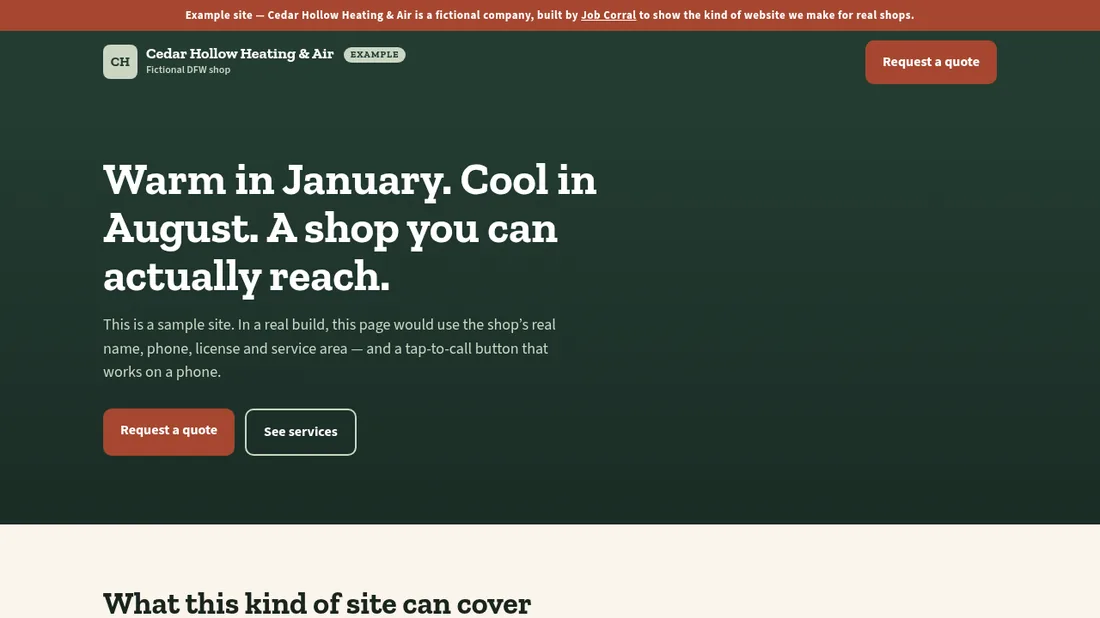
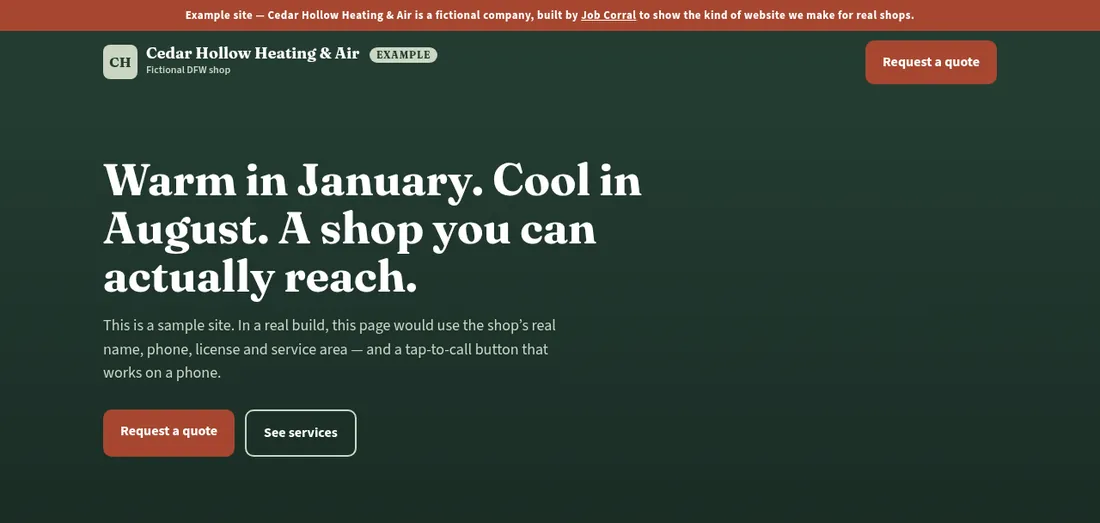
Redesign the Job Corral marketing site in the Hearth Air palette.
Cream, forest, terracotta and sage, with a serif wordmark, sunlit interior photo, and cream/sage missed-call chat bubbles. Prospect preview pages are unchanged.

Changed region(s): [[0.0, 0.2447, 1.0, 1.0], [0.0, 0.0, 1.0, 0.1836]]

diff --git a/index.html b/index.html
@@ -8,91 +8,142 @@
 <link rel="icon" href="favicon.svg" type="image/svg+xml">
 <link rel="preconnect" href="https://fonts.googleapis.com">
 <link rel="preconnect" href="https://fonts.gstatic.com" crossorigin>
-<link href="https://fonts.googleapis.com/css2?family=Source+Sans+3:wght@400;600;700;800&family=Zilla+Slab:wght@600;700&display=swap" rel="stylesheet">
+<link href="https://fonts.googleapis.com/css2?family=Fraunces:opsz,wght@9..144,500;9..144,600;9..144,700&family=Source+Sans+3:wght@400;600;700;800&display=swap" rel="stylesheet">
 <style>
 :root{
-  --ink:#1c1612;
-  --muted:#5c534a;
-  --brand:#9a3412;
-  --brand2:#7c2d12;
-  --bg:#f7f1e8;
+  --cream:#FAF5EB;
+  --forest:#243C32;
+  --terra:#A64730;
+  --terra-dark:#8a3a28;
+  --sage:#CBD6C3;
+  --ink:#243C32;
+  --muted:#4d5c56;
   --card:#fffdf8;
-  --line:#e6ddd0;
-  --ok:#3f6212;
-  --brass:#c4a574;
+  --line:#e2d9c8;
 }
 *{box-sizing:border-box}
-body{margin:0;font-family:"Source Sans 3",-apple-system,BlinkMacSystemFont,"Segoe UI",Roboto,Arial,sans-serif;color:var(--ink);line-height:1.55;background:#fff}
-a{color:var(--brand2)}
-.wrap{max-width:1080px;margin:0 auto;padding:0 20px}
-header{position:sticky;top:0;background:rgba(247,241,232,.94);backdrop-filter:blur(6px);border-bottom:1px solid var(--line);z-index:5}
-.nav{display:flex;align-items:center;justify-content:space-between;height:66px}
+html{scroll-behavior:smooth}
+body{margin:0;font-family:"Source Sans 3",-apple-system,BlinkMacSystemFont,"Segoe UI",Roboto,Arial,sans-serif;color:var(--ink);line-height:1.6;background:var(--cream)}
+a{color:var(--terra)}
+.wrap{max-width:1120px;margin:0 auto;padding:0 20px}
+header{position:sticky;top:0;background:rgba(250,245,235,.92);backdrop-filter:blur(10px);border-bottom:1px solid var(--line);z-index:5}
+.nav{display:flex;align-items:center;justify-content:space-between;height:70px;gap:12px}
 .logo{display:flex;align-items:center;text-decoration:none}
-.logo img{height:34px;width:auto;display:block}
-.btn{display:inline-block;background:var(--brand);color:#fff;text-decoration:none;font-weight:700;padding:13px 22px;border-radius:10px;border:0;cursor:pointer;font-size:16px;font-family:inherit}
-.btn:hover{background:var(--brand2)}
-.btn.ghost{background:transparent;color:var(--ink);border:2px solid var(--line)}
-.hero{background:linear-gradient(180deg,var(--bg),#fff);padding:72px 0 56px}
-.hero h1,.hero-font,h2{font-family:"Zilla Slab",Georgia,serif;font-weight:700}
-.hero h1{font-size:clamp(32px,5vw,52px);line-height:1.08;margin:0 0 18px;letter-spacing:-.6px}
-.hero p.lead{font-size:20px;color:var(--muted);max-width:720px}
-.pill{display:inline-block;background:#f3e6d4;color:var(--brand2);font-weight:700;font-size:13px;padding:6px 12px;border-radius:999px;margin-bottom:18px}
-.cta-row{display:flex;gap:12px;flex-wrap:wrap;margin-top:26px}
+.logo img{height:36px;width:auto;display:block}
+.btn{display:inline-flex;align-items:center;justify-content:center;background:var(--terra);color:#fff;text-decoration:none;font-weight:700;padding:13px 22px;border-radius:999px;border:0;cursor:pointer;font-size:16px;font-family:inherit;line-height:1.2}
+.btn:hover{background:var(--terra-dark)}
+.btn.ghost{background:transparent;color:var(--forest);border:1.5px solid var(--forest)}
+.btn.ghost:hover{background:var(--forest);color:var(--cream)}
+.btn.light{background:var(--cream);color:var(--forest)}
+.btn.light:hover{background:#fff}
+.hero{padding:48px 0 72px}
+@media(min-width:900px){.hero{padding:72px 0 96px}}
+.hero-grid{display:grid;gap:36px;align-items:center}
+@media(min-width:900px){.hero-grid{grid-template-columns:1.05fr .95fr;gap:56px}}
+.hero h1,h2,h3,.serif,.stat,.amt,.result .big{font-family:"Fraunces",Georgia,"Times New Roman",serif;font-weight:600;letter-spacing:-.02em}
+.hero h1{font-size:clamp(34px,6.2vw,58px);line-height:1.08;margin:0 0 18px;font-weight:600}
+.hero p.lead{font-size:clamp(17px,2.2vw,20px);color:var(--muted);max-width:540px;margin:0}
+.pill{display:inline-block;background:var(--sage);color:var(--forest);font-weight:700;font-size:13px;padding:6px 12px;border-radius:999px;margin-bottom:18px}
+.cta-row{display:flex;gap:12px;flex-wrap:wrap;margin-top:28px}
 .small{font-size:14px;color:var(--muted)}
-section{padding:64px 0}
-h2{font-size:clamp(26px,3.5vw,36px);letter-spacing:-.3px;margin:0 0 12px}
-.sub{color:var(--muted);max-width:720px;margin:0 0 32px}
+.hero-visual{position:relative}
+.hero-visual img{width:100%;border-radius:24px;aspect-ratio:4/3;object-fit:cover;display:block;box-shadow:0 24px 50px rgba(36,60,50,.16)}
+.phone{background:var(--forest);border-radius:28px;padding:16px 14px 18px;box-shadow:0 18px 40px rgba(36,60,50,.3);color:var(--forest)}
+.phone .notch{width:86px;height:5px;border-radius:999px;background:rgba(250,245,235,.25);margin:0 auto 12px}
+.hero-visual .phone{position:relative;width:100%;max-width:280px;margin:-48px 16px 0 auto}
+@media(min-width:900px){
+  .hero-visual .phone{position:absolute;right:18px;bottom:-28px;margin:0;width:min(242px,54%)}
+}
+.chat{max-width:420px}
+.b{padding:10px 13px;border-radius:16px;margin:8px 0;max-width:88%;font-size:14.5px;line-height:1.4}
+.b.cust{background:var(--cream);color:var(--forest);border-bottom-left-radius:5px}
+.b.shop{background:var(--sage);color:var(--forest);margin-left:auto;border-bottom-right-radius:5px}
+section{padding:72px 0}
+@media(min-width:900px){section{padding:96px 0}}
+h2{font-size:clamp(28px,4vw,42px);line-height:1.15;margin:0 0 12px}
+.sub{color:var(--muted);max-width:680px;margin:0 0 36px;font-size:18px}
 .grid{display:grid;gap:18px}
 .g3{grid-template-columns:repeat(auto-fit,minmax(250px,1fr))}
-.card{background:var(--card);border:1px solid var(--line);border-radius:16px;padding:24px}
-.card h3{margin:0 0 6px;font-size:19px;font-family:"Zilla Slab",Georgia,serif}
-.stat{font-size:40px;font-weight:800;color:var(--brand);letter-spacing:-1px;font-family:"Zilla Slab",Georgia,serif}
-.sms{max-width:360px;background:#f3eee6;border-radius:22px;padding:18px;margin-top:8px}
-.b{padding:10px 14px;border-radius:16px;margin:8px 0;max-width:85%;font-size:15px}
-.in{background:#e8e0d4}
-.out{background:var(--brand);color:#fff;margin-left:auto}
-.calc{display:grid;grid-template-columns:1fr 1fr;gap:28px}
-@media(max-width:780px){.calc{grid-template-columns:1fr}}
+.card{background:var(--card);border:1px solid var(--line);border-radius:18px;padding:24px}
+.card h3{margin:0 0 8px;font-size:22px}
+.stat{font-size:44px;font-weight:600;color:var(--terra);line-height:1;margin-bottom:10px}
+.sage-wash{background:var(--sage)}
+.forest-band{background:var(--forest);color:var(--cream)}
+.forest-band h2{color:var(--cream)}
+.forest-band .sub{color:var(--sage)}
+.forest-band .card{color:var(--forest)}
+.forest-band .card h3{color:var(--forest)}
+.forest-band .card p{color:var(--muted);margin:0}
+
+.chat-panel{display:grid;gap:28px;align-items:center}
+@media(min-width:800px){.chat-panel{grid-template-columns:1fr 1fr;gap:48px}}
+.chat-panel .chat{background:rgba(250,245,235,.06);border-radius:24px;padding:22px 20px;max-width:none}
+.steps{margin-bottom:8px}
+.calc{display:grid;grid-template-columns:1fr;gap:24px}
+@media(min-width:780px){.calc{grid-template-columns:1fr 1fr;gap:32px}}
 label{display:block;font-weight:600;margin:14px 0 6px}
-input,select{width:100%;padding:12px;border:1px solid #d4cbbd;border-radius:10px;font-size:16px;font-family:inherit;background:#fff}
-input[type=range]{padding:0}
-.val{float:right;color:var(--brand2);font-weight:700}
-.result{background:var(--ink);color:#fff;border-radius:16px;padding:28px}
-.result .big{font-size:46px;font-weight:800;color:#e8c48a;letter-spacing:-1px;font-family:"Zilla Slab",Georgia,serif}
-.price{position:relative}
-.price .amt{font-size:42px;font-weight:800;font-family:"Zilla Slab",Georgia,serif}
-.price .amt small{font-size:16px;color:var(--muted);font-weight:600}
+input,select,textarea{width:100%;padding:12px 14px;border:1px solid var(--line);border-radius:12px;font-size:16px;font-family:inherit;background:#fff;color:var(--ink)}
+input:focus,select:focus,textarea:focus{outline:3px solid color-mix(in srgb,var(--terra) 30%,transparent);border-color:var(--terra)}
+input[type=range]{padding:0;accent-color:var(--terra)}
+.val{float:right;color:var(--terra);font-weight:700}
+.result{background:var(--forest);color:var(--cream);border-radius:20px;padding:28px}
+.result .big{font-size:46px;font-weight:600;color:#F3E6C9;letter-spacing:-.02em;line-height:1.1}
+.price{position:relative;display:flex;flex-direction:column;height:100%}
+.price .btn{margin-top:auto;align-self:flex-start}
+.price .amt{font-size:42px;font-weight:600}
+.price .amt small{font-size:16px;color:var(--muted);font-weight:600;font-family:"Source Sans 3",sans-serif}
 .price ul{padding-left:18px;margin:14px 0 20px}
-.price li{margin:6px 0}
-.featured{border:2px solid var(--brand);box-shadow:0 10px 30px rgba(154,52,18,.15)}
-.tag{position:absolute;top:-12px;right:18px;background:var(--brand);color:#fff;font-size:12px;font-weight:800;padding:4px 10px;border-radius:999px}
-.alt{background:var(--bg)}
-details{border-bottom:1px solid var(--line);padding:14px 0}
+.price li{margin:7px 0}
+.featured{border:2px solid var(--terra);box-shadow:0 16px 36px rgba(166,71,48,.12)}
+.tag{position:absolute;top:-12px;right:18px;background:var(--terra);color:#fff;font-size:11px;font-weight:800;letter-spacing:.06em;padding:4px 10px;border-radius:999px}
+details{border-bottom:1px solid var(--line);padding:16px 0}
 summary{font-weight:700;cursor:pointer}
 form .row{display:grid;grid-template-columns:1fr 1fr;gap:14px}
 @media(max-width:640px){form .row{grid-template-columns:1fr}}
-.ok{display:none;background:#ecf4e0;color:#14532d;padding:16px;border-radius:12px;margin-top:14px;font-weight:600}
+.ok{display:none;background:var(--sage);color:var(--forest);padding:16px;border-radius:12px;margin-top:14px;font-weight:600}
 .mail-fallback{margin-top:12px;font-size:14px;color:var(--muted)}
-footer{padding:34px 0;border-top:1px solid var(--line);font-size:13px;color:var(--muted);background:var(--bg)}
-footer .addr{color:var(--ink);font-weight:600;margin-bottom:8px}
-
-.work-card{display:grid;gap:0;background:var(--card);border:1px solid var(--line);border-radius:20px;overflow:hidden;box-shadow:0 10px 30px rgba(28,22,18,.06);max-width:820px}
-.work-card img{width:100%;height:auto;display:block;aspect-ratio:16/9;object-fit:cover;object-position:top;background:#243C32}
+footer{padding:40px 0;background:var(--forest);color:var(--sage);font-size:14px}
+footer a{color:var(--cream)}
+footer .addr{color:var(--cream);font-weight:600;margin-bottom:8px}
+.work-card{display:grid;gap:0;background:var(--card);border:1px solid var(--line);border-radius:20px;overflow:hidden;box-shadow:0 12px 32px rgba(36,60,50,.08);max-width:820px}
+.work-card img{width:100%;height:auto;display:block;aspect-ratio:2.1/1;object-fit:cover;object-position:top;background:var(--forest)}
 .work-card .bd{padding:22px 24px 26px}
-.work-card h3{margin:0 0 8px;font-family:"Zilla Slab",Georgia,serif;font-size:24px}
-.ex-badge{display:inline-block;background:#CBD6C3;color:#243C32;font-size:11px;font-weight:800;letter-spacing:.08em;text-transform:uppercase;padding:3px 8px;border-radius:999px;vertical-align:middle;margin-left:8px}
+.work-card h3{margin:0 0 8px;font-size:26px}
 
+@media(max-width:899px){
+  .logo img{height:30px}
+  .nav{height:62px}
+  .nav .btn{padding:10px 14px;font-size:14px}
+  .hero{padding:32px 0 64px}
+  .hero-visual img{aspect-ratio:1/1;max-height:300px;object-position:center 60%}
+  .hero-visual .phone{margin:-40px auto 0;width:100%;max-width:300px}
+  .cta-row .btn{width:100%}
+}
+
+.ex-badge{display:inline-block;background:var(--sage);color:var(--forest);font-size:11px;font-weight:800;letter-spacing:.08em;text-transform:uppercase;padding:3px 8px;border-radius:999px;vertical-align:middle;margin-left:8px}
 </style>
 </head>
 <body>
 <header><div class="wrap nav"><a class="logo" href="./"><img src="logo.svg" alt="Job Corral"></a><a class="btn" href="#start">Get my free site</a></div></header>
 
-<div class="hero"><div class="wrap">
-  <div class="pill">For Dallas–Fort Worth HVAC &amp; plumbing contractors</div>
-  <h1>You're on a roof or under a sink.<br>The phone rings. <span style="color:var(--brand)">That job just went to the next guy.</span></h1>
-  <p class="lead">Job Corral texts every missed caller back in seconds, keeps the conversation going and hands you a ready-to-book job. We also build you a fast, professional website for free. You never touch a setting.</p>
-  <div class="cta-row"><a class="btn" href="#calc">See what missed calls cost you</a><a class="btn ghost" href="#pricing">Pricing</a></div>
-  <p class="small" style="margin-top:14px">$0 down · month to month · 14-day free trial · founding price for the first 10 DFW shops</p>
+<div class="hero"><div class="wrap hero-grid">
+  <div>
+    <div class="pill">For Dallas–Fort Worth HVAC &amp; plumbing contractors</div>
+    <h1>You're on a roof or under a sink.<br>The phone rings. <span style="color:var(--terra)">That job just went to the next&nbsp;guy.</span></h1>
+    <p class="lead">Job Corral texts every missed caller back in seconds, keeps the conversation going and hands you a ready-to-book job. We also build you a fast, professional website for free. You never touch a setting.</p>
+    <div class="cta-row"><a class="btn" href="#calc">See what missed calls cost you</a><a class="btn ghost" href="#pricing">Pricing</a></div>
+    <p class="small" style="margin-top:16px">$0 down · month to month · 14-day free trial · founding price for the first 10 DFW shops</p>
+  </div>
+  <div class="hero-visual">
+    <img src="img/sunlit-bath.webp" width="1100" height="825" alt="Sunlit bathroom with a freestanding tub and a garden window">
+    <div class="phone" aria-label="Example missed-call text conversation">
+      <div class="notch" aria-hidden="true"></div>
+      <div class="b shop">Hi, this is Lone Star Air. Sorry we missed your call! Is this about heating or cooling, and is it urgent?</div>
+      <div class="b cust">AC stopped blowing cold, upstairs unit</div>
+      <div class="b shop">Got it. What's the address and a good time today?</div>
+      <div class="b cust">4512 Elm Ridge, Plano. Anytime after 2</div>
+    </div>
+  </div>
 </div></div>
 
 <section><div class="wrap">
@@ -105,24 +156,29 @@ footer .addr{color:var(--ink);font-weight:600;margin-bottom:8px}
   </div>
 </div></section>
 
-<section class="alt"><div class="wrap">
+<section class="forest-band" id="how"><div class="wrap">
   <h2>How it works</h2>
   <p class="sub">Keep your current number. No new app to learn.</p>
-  <div class="grid g3">
+  <div class="grid g3 steps">
     <div class="card"><h3>1. A call gets missed</h3><p>You're on a job, after hours, or on another call.</p></div>
     <div class="card"><h3>2. We text them back instantly</h3><p>A friendly text in your company's name asks what they need, gets the address and urgency, and sends you photos.</p></div>
     <div class="card"><h3>3. You get a ready-to-book lead</h3><p>You get a text summary ("No cooling, 2-story, Plano, wants today") so you can call back and close it.</p></div>
   </div>
-  <div class="sms" aria-label="Example text conversation">
-    <div class="b out">Hi, this is Lone Star Air. Sorry we missed your call! Is this about heating or cooling, and is it urgent?</div>
-    <div class="b in">AC stopped blowing cold, upstairs unit</div>
-    <div class="b out">Got it. What's the address and a good time today? A tech will confirm shortly.</div>
-    <div class="b in">4512 Elm Ridge, Plano. Anytime after 2</div>
+  <div class="chat-panel" style="margin-top:48px">
+    <div>
+      <h2 style="font-size:clamp(24px,3vw,34px)">The missed call, in writing</h2>
+      <p class="sub">A cream bubble is the customer. A sage bubble is the shop writing back. This conversation is an example, for illustration.</p>
+    </div>
+    <div class="chat" aria-label="Example text conversation">
+      <div class="b shop">Hi, this is Lone Star Air. Sorry we missed your call! Is this about heating or cooling, and is it urgent?</div>
+      <div class="b cust">AC stopped blowing cold, upstairs unit</div>
+      <div class="b shop">Got it. What's the address and a good time today? A tech will confirm shortly.</div>
+      <div class="b cust">4512 Elm Ridge, Plano. Anytime after 2</div>
+    </div>
   </div>
-  <p class="small">Example conversation for illustration.</p>
 </div></section>
 
-<section id="work" class="alt"><div class="wrap">
+<section id="work"><div class="wrap">
   <h2>Our work</h2>
   <p class="sub">A sample of the kind of site we build for a shop. This one is fictional — it is an example, not a real company, and it is not a preview for any contractor we have contacted.</p>
   <div class="work-card">
@@ -135,7 +191,7 @@ footer .addr{color:var(--ink);font-weight:600;margin-bottom:8px}
   </div>
 </div></section>
 
-<section id="calc"><div class="wrap">
+<section id="calc" class="sage-wash"><div class="wrap">
   <h2>Missed-revenue calculator</h2>
   <p class="sub">Plug in your own numbers. It's an estimate, but most owners are surprised.</p>
   <div class="calc">
@@ -151,13 +207,13 @@ footer .addr{color:var(--ink);font-weight:600;margin-bottom:8px}
       <div class="big" id="lost">$0</div>
       <div style="margin-top:18px">Recovered with Job Corral (est.)</div>
       <div class="big" id="won" style="font-size:36px">$0</div>
-      <p id="roi" style="color:#d6c7b4"></p>
+      <p id="roi" style="color:var(--sage)"></p>
       <a class="btn" href="#start">Start my free trial</a>
     </div>
   </div>
 </div></section>
 
-<section id="pricing" class="alt"><div class="wrap">
+<section id="pricing"><div class="wrap">
   <h2>Simple pricing. Done for you.</h2>
   <p class="sub">Founding prices for the first 10 Dallas–Fort Worth shops, locked in for as long as you stay. No setup fees. Cancel anytime.</p>
   <div class="grid g3">
@@ -171,7 +227,7 @@ footer .addr{color:var(--ink);font-weight:600;margin-bottom:8px}
   <p class="small" style="margin-top:16px">Most agencies charge $1,500+ in setup fees. We don't. Texts only go to people who called you first.</p>
 </div></section>
 
-<section><div class="wrap">
+<section class="sage-wash"><div class="wrap">
   <h2>Why owners pick Job Corral</h2>
   <div class="grid g3">
     <div class="card"><h3>Done for you</h3><p>No software to configure. Send us your hours and services; we do the rest in 48 hours.</p></div>
@@ -180,7 +236,7 @@ footer .addr{color:var(--ink);font-weight:600;margin-bottom:8px}
   </div>
 </div></section>
 
-<section id="start" class="alt"><div class="wrap">
+<section id="start"><div class="wrap">
   <h2>Claim a founding spot</h2>
   <p class="sub">Tell us about your shop. We'll build a preview of your new site and send it to you, free, with no obligation.</p>
   <form id="leadform" class="card" action="mailto:hello@jobcorral.com" method="post" enctype="text/plain">
@@ -196,7 +252,7 @@ footer .addr{color:var(--ink);font-weight:600;margin-bottom:8px}
   </form>
 </div></section>
 
-<section><div class="wrap">
+<section style="padding-top:0"><div class="wrap">
   <h2>Questions</h2>
   <details><summary>Do I need a new phone number?</summary><p>No. We work with your existing business number using carrier-compliant business texting.</p></details>
   <details><summary>Is texting people legal?</summary><p>Yes, when it's a reply to someone who called you first. We register your business texting with the carriers as required, and every thread honors STOP.</p></details>

diff --git a/example/cedar-hollow-heating/index.html b/example/cedar-hollow-heating/index.html
@@ -9,7 +9,7 @@
 <meta name="theme-color" content="#243C32">
 <link rel="preconnect" href="https://fonts.googleapis.com">
 <link rel="preconnect" href="https://fonts.gstatic.com" crossorigin>
-<link href="https://fonts.googleapis.com/css2?family=Source+Sans+3:wght@400;600;700;800&family=Zilla+Slab:wght@600;700&display=swap" rel="stylesheet">
+<link href="https://fonts.googleapis.com/css2?family=Fraunces:opsz,wght@9..144,600;9..144,700&family=Source+Sans+3:wght@400;600;700;800&display=swap" rel="stylesheet">
 <style>
 :root{--cream:#FAF5EB;--forest:#243C32;--terra:#A64730;--sage:#CBD6C3;--ink:#1a241f;--muted:#4d5c56}
 *{box-sizing:border-box}
@@ -21,23 +21,23 @@ a{color:var(--terra)}
 header{background:var(--forest);color:#fff}
 .nav{display:flex;align-items:center;justify-content:space-between;min-height:72px;gap:12px}
 .logo{display:flex;align-items:center;gap:10px;color:#fff;text-decoration:none}
-.mark{width:40px;height:40px;border-radius:8px;background:var(--sage);color:var(--forest);display:grid;place-items:center;font-family:"Zilla Slab",Georgia,serif;font-weight:700;font-size:16px}
-.logo strong{display:block;font-family:"Zilla Slab",Georgia,serif;font-size:18px;line-height:1.1}
+.mark{width:40px;height:40px;border-radius:8px;background:var(--sage);color:var(--forest);display:grid;place-items:center;font-family:"Fraunces",Georgia,serif;font-weight:700;font-size:16px}
+.logo strong{display:block;font-family:"Fraunces",Georgia,serif;font-size:18px;line-height:1.1}
 .logo small{display:block;font-size:12px;color:var(--sage);font-weight:600}
 .badge{display:inline-block;background:var(--sage);color:var(--forest);font-size:11px;font-weight:800;letter-spacing:.08em;text-transform:uppercase;padding:3px 8px;border-radius:999px;margin-left:8px;vertical-align:middle}
 .btn{display:inline-block;background:var(--terra);color:#fff;text-decoration:none;font-weight:700;padding:13px 20px;border-radius:10px}
 .btn:hover{filter:brightness(1.05)}
 .btn.ghost{background:transparent;border:2px solid var(--sage);color:#fff}
 .hero{background:linear-gradient(180deg,var(--forest) 0%,#1a2c25 100%);color:#fff;padding:72px 0 80px}
-.hero h1{font-family:"Zilla Slab",Georgia,serif;font-size:clamp(32px,5vw,52px);line-height:1.08;margin:0 0 16px;max-width:720px}
+.hero h1{font-family:"Fraunces",Georgia,serif;font-size:clamp(32px,5vw,52px);line-height:1.08;margin:0 0 16px;max-width:720px}
 .hero p{font-size:18px;color:var(--sage);max-width:560px;margin:0 0 28px}
 .cta{display:flex;gap:12px;flex-wrap:wrap}
 section{padding:64px 0}
-h2{font-family:"Zilla Slab",Georgia,serif;font-size:clamp(26px,3vw,36px);margin:0 0 10px}
+h2{font-family:"Fraunces",Georgia,serif;font-size:clamp(26px,3vw,36px);margin:0 0 10px}
 .sub{color:var(--muted);max-width:640px;margin:0 0 28px}
 .grid{display:grid;gap:18px;grid-template-columns:repeat(auto-fit,minmax(230px,1fr))}
 .card{background:#fff;border:1px solid var(--sage);border-radius:16px;padding:22px}
-.card h3{margin:0 0 6px;font-family:"Zilla Slab",Georgia,serif}
+.card h3{margin:0 0 6px;font-family:"Fraunces",Georgia,serif}
 .note{background:var(--sage);border-radius:16px;padding:20px 24px;color:var(--forest);font-weight:600}
 footer{background:var(--forest);color:var(--sage);padding:36px 0;font-size:14px}
 footer strong{color:#fff}

diff --git a/privacy.html b/privacy.html
@@ -5,13 +5,16 @@
 <meta name="viewport" content="width=device-width,initial-scale=1">
 <title>Privacy — Job Corral</title>
 <link rel="icon" href="favicon.svg" type="image/svg+xml">
+<link rel="preconnect" href="https://fonts.googleapis.com">
+<link rel="preconnect" href="https://fonts.gstatic.com" crossorigin>
+<link href="https://fonts.googleapis.com/css2?family=Fraunces:opsz,wght@9..144,600&family=Source+Sans+3:wght@400;600;700&display=swap" rel="stylesheet">
 <style>
-:root{--ink:#1c1612;--muted:#5c534a;--brand:#9a3412;--brand2:#7c2d12;--bg:#f7f1e8;--line:#e6ddd0}
-body{margin:0;font-family:"Source Sans 3",-apple-system,Segoe UI,Roboto,Arial,sans-serif;color:var(--ink);line-height:1.6;background:var(--bg)}
+:root{--cream:#FAF5EB;--forest:#243C32;--terra:#A64730;--sage:#CBD6C3;--muted:#4d5c56}
+body{margin:0;font-family:"Source Sans 3",-apple-system,Segoe UI,Roboto,Arial,sans-serif;color:var(--forest);line-height:1.65;background:var(--cream)}
 .wrap{max-width:760px;margin:0 auto;padding:48px 20px}
-a{color:var(--brand2)}
-h1{font-family:Georgia,"Zilla Slab",serif;font-size:32px;margin:0 0 8px}
-.addr{margin-top:28px;font-size:14px;color:var(--muted)}
+a{color:var(--terra)}
+h1{font-family:"Fraunces",Georgia,serif;font-size:36px;font-weight:600;margin:0 0 8px}
+.addr{margin-top:32px;font-size:14px;color:var(--muted)}
 </style>
 </head>
 <body>
